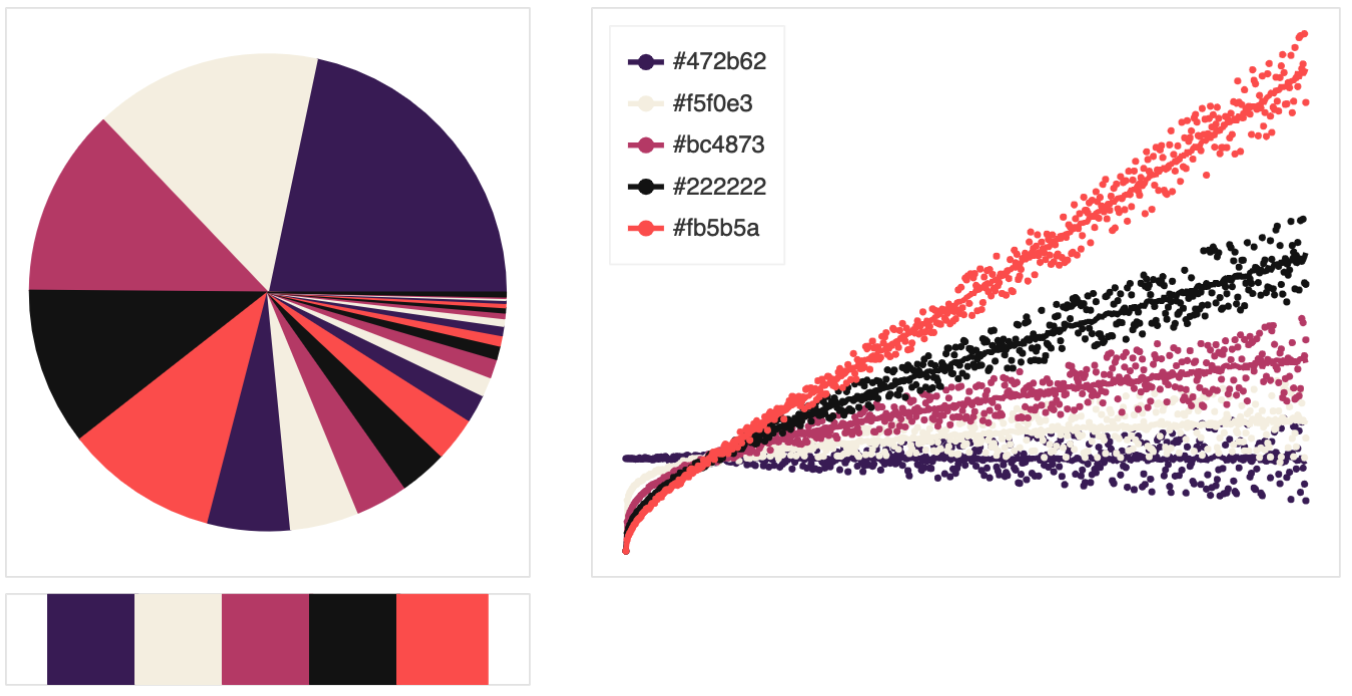
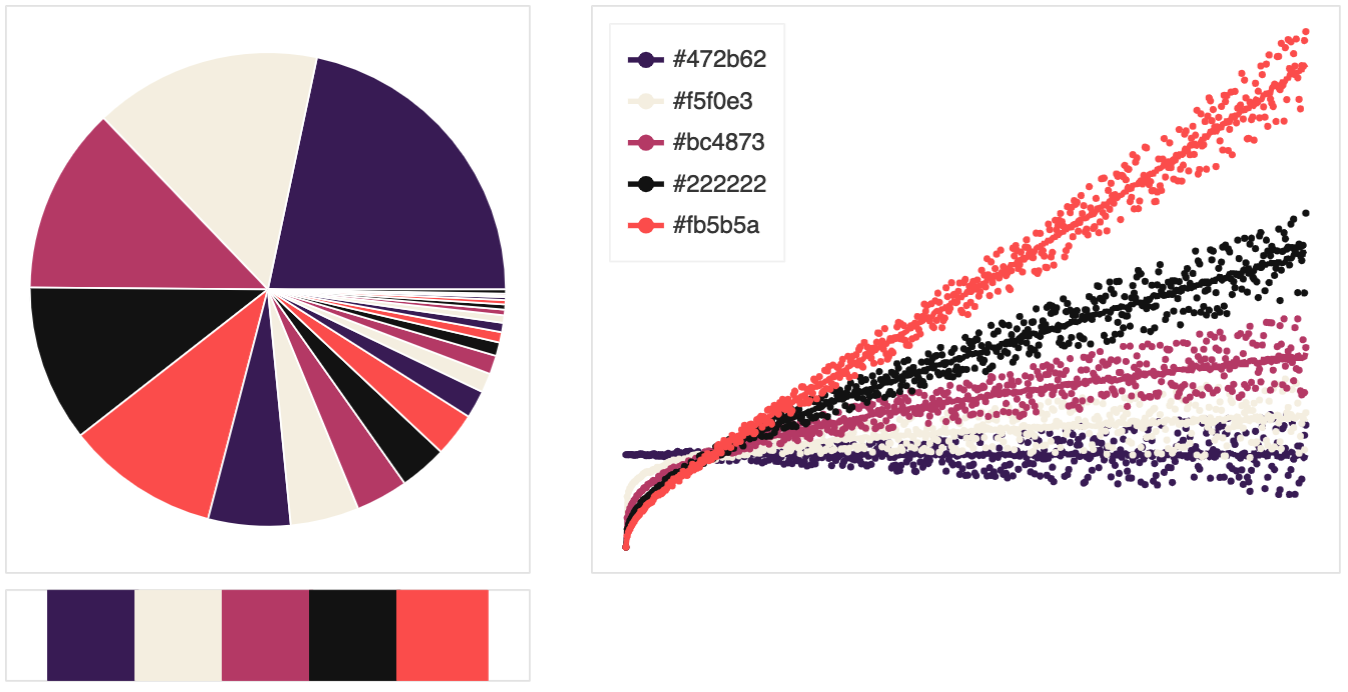
polishing imgs...

diff --git a/chromatose/viz.py b/chromatose/viz.py
@@ -163,7 +163,7 @@ def clean_plot(p, bg_color):
     return p
 
 
-def palplot(palette, plot='all',bg_color=None,alpha=1.0):
+def palplot(palette, plot='all',bg_color="white",alpha=1.0):
     """
     Displays palette via bokeh. Hover for hex/rgb value.
     Arguments
@@ -174,8 +174,10 @@ def palplot(palette, plot='all',bg_color=None,alpha=1.0):
         'pie' for wedges (adjacency comparison),
         'scatter' for some points,
         'all' for all (this is the default)
-    bg_color : background fill color, valid name hex or rgb 
-    alpha : alpha of entire palette
+    bg_color : background fill color, 
+        valid name hex or rgb 
+    alpha : alpha of entire palette, 
+        fraction btw 0.0 and 1.0
     """    
     # HOVER FORMAT STRING (for swatch and pie plots)
     TOOLTIPS = """
@@ -237,8 +239,7 @@ def palplot(palette, plot='all',bg_color=None,alpha=1.0):
         p.wedge(x=0,y=0,radius=1,
                    start_angle=bokeh.transform.cumsum('angle',include_zero=True),
                    end_angle=bokeh.transform.cumsum('angle'),
-#                    line_color=bg_color, #"white", 
-                    line_color="palette",
+                   line_color= bg_color, # "palette", # -> (no spaces btw wedges)
                    fill_color="palette",
                    fill_alpha=alpha,
                    source=df
